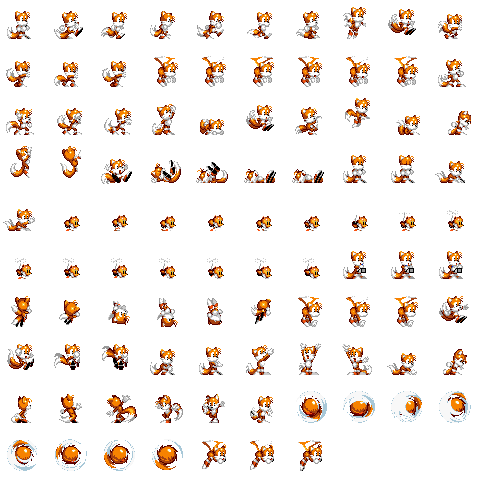
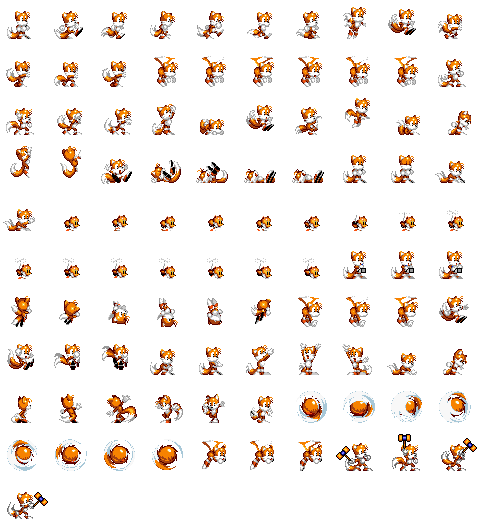
Replace Insta Shield with Hammer

diff --git a/src/character_tool.cpp b/src/character_tool.cpp
@@ -33,8 +33,8 @@ void TA_Character::updateTool()
         case TOOL_REMOTE_ROBOT:
             spawnRemoteRobot();
             break;
-        case TOOL_INSTA_SHIELD:
-            spawnInstaShield();
+        case TOOL_HAMMER:
+            initHammer();
             break;
         case TOOL_TELEPORT_DEVICE:
             initTeleport();
@@ -107,40 +107,60 @@ void TA_Character::spawnRemoteRobot()
     state = STATE_REMOTE_ROBOT_INIT;
 }
 
-void TA_Character::spawnInstaShield()
+void TA_Character::initHammer()
 {
-    if(instaShieldTime < instaShieldCooldownTime) {
-        return;
-    }
-    if(!jump || helitail) {
-        return;
-    }
-    
-    setAnimation("shield");
-    instaShieldTime = 0;
-    instaShieldSound.play();
-
-    usingInstaShield = true;
-    jump = helitail = false;
-}
-
-void TA_Character::updateInstaShield()
-{
-    if(usingInstaShield) {
-        if(ground || !isAnimated()) {
-            usingInstaShield = false;
+    if(ground || (jump && !helitail)) {
+        setAnimation("hammer");
+        state = STATE_HAMMER;
+        if(!ground) {
+            jump = helitail = false;
+            velocity = {0, hammerFallSpeed};
         }
     }
-    else {
-        instaShieldTime += TA::elapsedTime;
+}
+
+void TA_Character::updateHammer()
+{
+    if(!ground) {
+        TA_Point topLeft{18, 12}, bottomRight{30, 39};
+        int flags = moveAndCollide(topLeft, bottomRight, velocity * TA::elapsedTime);
+        if(flags & TA_GROUND_COLLISION) {
+            ground = true;
+        }
+    }
+
+    setPosition(position);
+    hitbox.setPosition(position);
+    TA_Point topLeft;
+
+    switch(getAnimationFrame()) {
+        case 0:
+            topLeft = {-2, 12};
+            break;
+        case 1:
+            topLeft = {12, -1};
+            break;
+        case 2:
+            topLeft = {29, 4};
+            break;
+        case 3:
+            topLeft = {32, 10};
+            break;
+    }
+
+    if(flip) {
+        topLeft.x = 30 - topLeft.x;
+    }
+    hitbox.setRectangle(topLeft, topLeft + TA_Point(18, 18));
+    
+    if(!isAnimated()) {
+        state = STATE_NORMAL;
     }
 }
 
 void TA_Character::resetInstaShield()
 {
-    if(usingInstaShield) {
-        instaShieldTime = instaShieldCooldownTime;
-    }
+    
 }
 
 void TA_Character::initTeleport()

diff --git a/include/character.h b/include/character.h
@@ -17,7 +17,7 @@ private:
         TOOL_REMOTE_ROBOT = 6,
         TOOL_SPEED_BOOTS = 7,
         TOOL_RADIO = 18,
-        TOOL_INSTA_SHIELD = 19
+        TOOL_HAMMER = 19
     };
 
     enum TA_CharacterState {
@@ -30,6 +30,7 @@ private:
         STATE_UNPACK_ITEM,
         STATE_RAISE_ITEM,
         STATE_TELEPORT,
+        STATE_HAMMER,
         STATE_DEAD
     };
 
@@ -49,9 +50,9 @@ private:
     const double remoteRobotInitTime = 30;
     const double remoteRobotJumpSpeed = -3.25;
     const double maxLookTime = 100;
-    const double instaShieldCooldownTime = 60;
     const double strongWindForce = 0.25;
     const double teleportInitTime = 60;
+    const double hammerFallSpeed = 0.2;
 
     TA_Controller controller;
     TA_Point followPosition, velocity, climbPosition;
@@ -78,7 +79,6 @@ private:
     bool bombDestroySignal = false;
     bool strongWind = false;
     bool hidden = false, nextFrameHidden = false;
-    bool usingInstaShield = false;
 
     double jumpSpeed = 0, jumpTime = 0;
     double climbTime = 0, helitailTime = 0, invincibleTimeLeft = -1;
@@ -87,7 +87,6 @@ private:
     int rings = 10;
     int currentTool = TOOL_BOMB;
     bool usingSpeedBoots = false;
-    double instaShieldTime = instaShieldCooldownTime;
 
     void physicsStep();
     void updateGround();
@@ -109,8 +108,8 @@ private:
     void updateTool();
     void spawnBomb(bool remote);
     void spawnRemoteRobot();
-    void spawnInstaShield();
-    void updateInstaShield();
+    void initHammer();
+    void updateHammer();
     void initTeleport();
     void updateTeleport();
     void changeMusic();

diff --git a/src/character.cpp b/src/character.cpp
@@ -65,7 +65,10 @@ void TA_Character::update()
         return;
     }
 
-    updateInstaShield();
+    if(state == STATE_HAMMER) {
+        updateHammer();
+        return;
+    }
 
     if(state == STATE_TELEPORT) {
         updateTeleport();
@@ -128,7 +131,7 @@ void TA_Character::update()
     updateObjectCollision();
     updateTool();
     updateFollowPosition();
-    if(state == STATE_THROW_BOMB || state == STATE_REMOTE_ROBOT_RETURN || state == STATE_TELEPORT) {
+    if(state == STATE_THROW_BOMB || state == STATE_REMOTE_ROBOT_RETURN || state == STATE_TELEPORT || state == STATE_HAMMER) {
         return;
     }
     updateAnimation();
@@ -147,7 +150,7 @@ void TA_Character::draw()
 
 TA_CollisionType TA_Character::getCollisionType()
 {
-    if(usingInstaShield) {
+    if(state == STATE_HAMMER) {
         return TA_COLLISION_INSTA_SHIELD;
     }
     return TA_COLLISION_CHARACTER;
@@ -163,10 +166,6 @@ void TA_Character::updateAnimation()
     }
     else {
         setAlpha(255);
-    }
-
-    if(usingInstaShield) {
-        return;
     }
 
     if(remoteRobot) {

diff --git a/src/character_collision.cpp b/src/character_collision.cpp
@@ -38,12 +38,7 @@ void TA_Character::updateCollisions()
     }
     bottomRight = TA_Point(30, 39);
 
-    if(usingInstaShield) {
-        hitbox.setRectangle(TA_Point(10, 6), TA_Point(38, 42));
-    }
-    else {
-        hitbox.setRectangle(topLeft, bottomRight);
-    }
+    hitbox.setRectangle(topLeft, bottomRight);
 
     if(ground) {
         useHalfSolidTiles = true;
@@ -107,7 +102,7 @@ void TA_Character::updateCollisions()
         ceiling = false;
     }
 
-    if(!remoteRobot && !hurt && !usingInstaShield && invincibleTimeLeft <= 0) {
+    if(!remoteRobot && !hurt && invincibleTimeLeft <= 0) {
         auto handleDamage = [&] (TA_Polygon &hitbox, int sign) {
             if(hurt) {
                 return;
